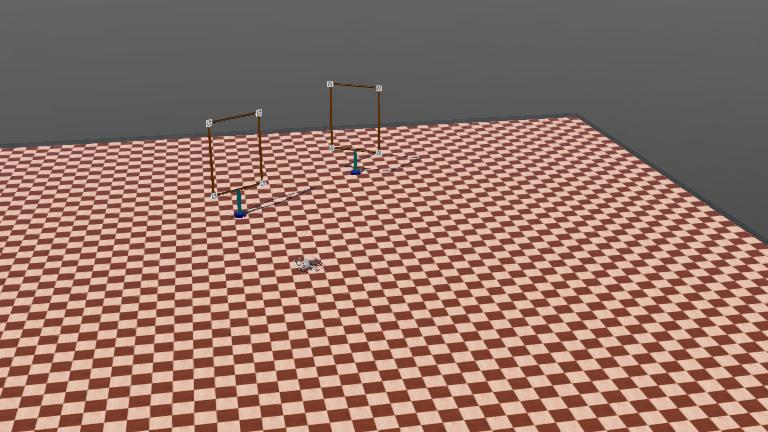
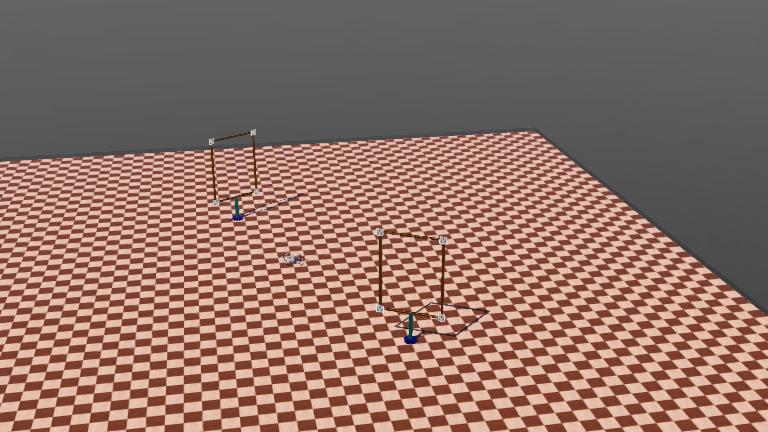
Añadidio controlar guiado vector

diff --git a/Puertas/nodoNavegacion.py b/Puertas/nodoNavegacion.py
@@ -19,8 +19,10 @@ ERROR_YAW_DEG = 2.0
 DISTANCIA_NUEVA_PUERTA = 1.25 
 
 KP = 1.0
-KI = 4.0
+KI = 0.15
 KD = 0.0
+KL = 4.0
+KML = 0.5
 MAX_INTEGRAL = 30.0
 
 def rango_velocidad(valor, maximo):
@@ -256,7 +258,7 @@ class NodoNavegacion(Node):
         return out_min + (valor - in_min) * pendiente
     
     def ir_a_posicion(self, punto_objetivo, yaw):
-        error_posicion = punto_objetivo - self.posicion_dron_mundo
+        error_posicion = self.calcular_error_trayectoria(punto_objetivo)
         magnitud_error = np.linalg.norm(error_posicion)
         
         error_min = ERROR_POS_MIN
@@ -316,6 +318,47 @@ class NodoNavegacion(Node):
         self.enviar_comando_velocidad(lateral_cuerpo, avance_cuerpo, vz_mundo, rotacion)
         
         return False
+    
+    def calcular_error_trayectoria(self, punto_objetivo):
+        p_inicio = None
+        if self.estado_mision == 'IR_A_P1':
+            p_inicio = self.puntos_trayectoria_actual[0] 
+        elif self.estado_mision == 'IR_A_P2':
+            p_inicio = self.puntos_trayectoria_actual[1] 
+        elif self.estado_mision == 'IR_A_P3':
+            p_inicio = self.puntos_trayectoria_actual[2] 
+        elif self.estado_mision == 'IR_A_P4':
+            p_inicio = self.puntos_trayectoria_actual[3] 
+        
+        error_real = punto_objetivo - self.posicion_dron_mundo
+        
+        if p_inicio is None:
+            return error_real
+
+        v_ruta = punto_objetivo - p_inicio
+        len_ruta = np.linalg.norm(v_ruta)
+        
+        if len_ruta < 0.01:
+            return error_real
+
+        u_ruta = v_ruta / len_ruta
+        v_dron = self.posicion_dron_mundo - p_inicio
+        
+        proyeccion = np.dot(v_dron, u_ruta)
+        proyeccion_clamped = np.clip(proyeccion, 0, len_ruta)
+        
+        p_ideal = p_inicio + (proyeccion_clamped * u_ruta)
+        
+        e_lateral = p_ideal - self.posicion_dron_mundo 
+        e_avance = punto_objetivo - p_ideal            
+        
+        dist_lat = np.linalg.norm(e_lateral)
+        
+        factor_penalizacion = dist_lat / KML
+        k_avance = 1.0 - factor_penalizacion
+        k_avance = np.clip(k_avance, 0.1, 1.0) 
+        
+        return (e_lateral * KL) + (e_avance * k_avance)
     
     def rotar_a_yaw(self):
         error_yaw = normalizar_angulo_deg(self.angulo_objetivo_deg - self.yaw_dron_deg)

diff --git a/Webots/controllers/controlador_viento/controlador_viento.py b/Webots/controllers/controlador_viento/controlador_viento.py
@@ -1,0 +1,15 @@
+from controller import Supervisor
+
+def main():
+    supervisor = Supervisor()
+    timestep = int(supervisor.getBasicTimeStep())
+
+    dron_node = supervisor.getFromDef("Mavic_2_PRO")
+
+    FUERZA_VIENTO = [0.0, 1.5, 0.0] 
+
+    while supervisor.step(timestep) != -1:
+        dron_node.addForce(FUERZA_VIENTO, False)
+
+if __name__ == "__main__":
+    main()

diff --git a/Puertas/nodoDeteccion.py b/Puertas/nodoDeteccion.py
@@ -20,10 +20,10 @@ ALTO_IMAGEN = 720
 
 MIN_CORNER_AREA = 10
 
-ALTO_REAL = 0.7
-ANCHO_REAL = 0.5
-FOCAL = 900.0 #tello
-#FOCAL = 617.0 #webots
+ALTO_REAL = 1.3
+ANCHO_REAL = 1.0
+#FOCAL = 900.0 #tello
+FOCAL = 617.0 #webots
 
 class NodoDeteccion(Node):
     def __init__(self):
